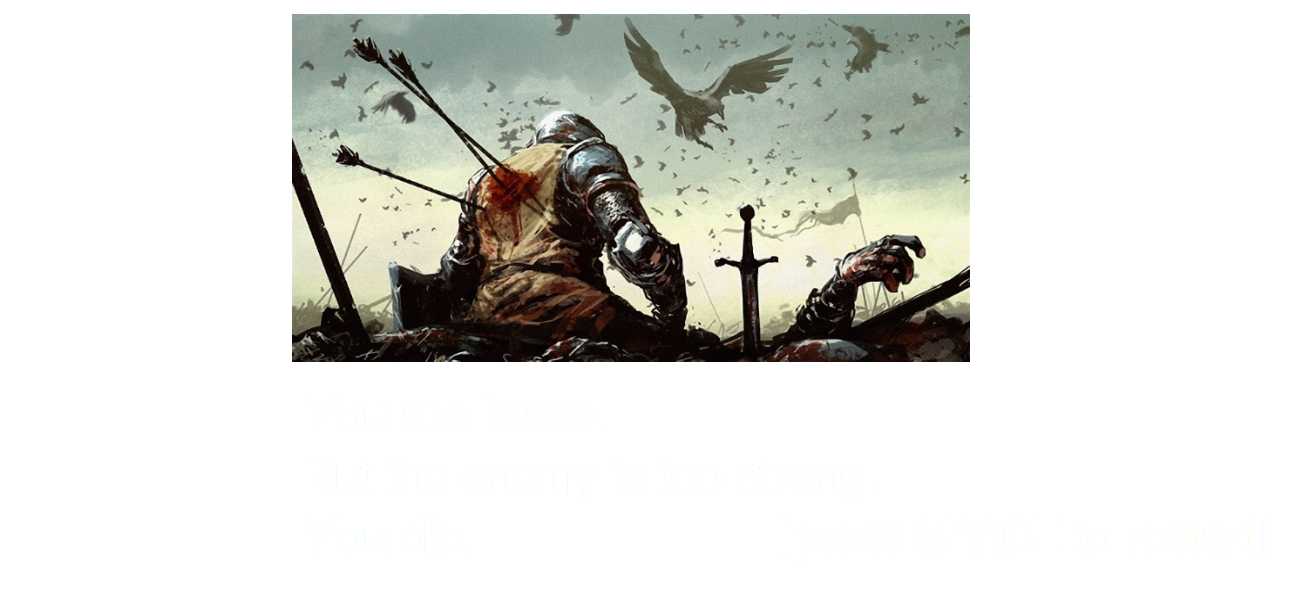
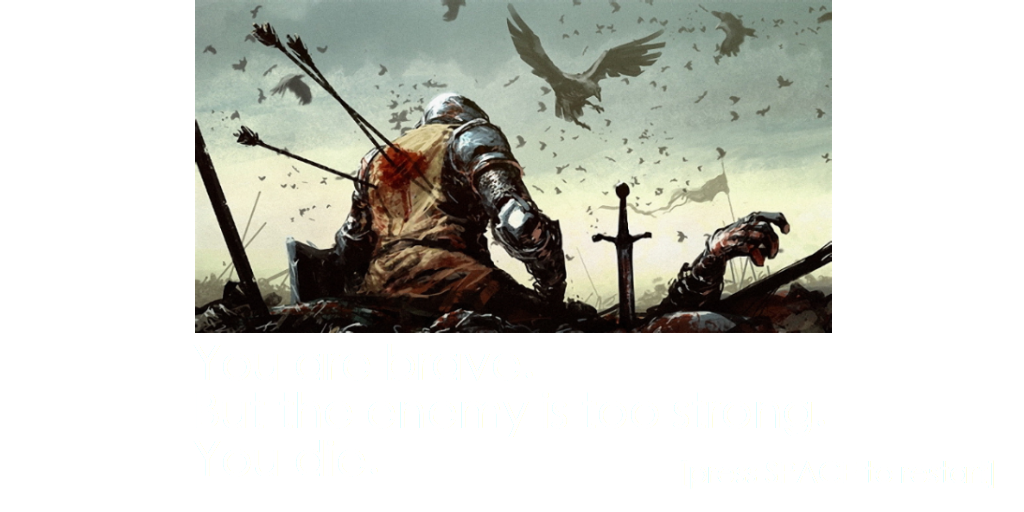
Endings

Changed region(s): [[0.1875, 0.0, 0.8125, 0.6562]]

diff --git a/public_html/src/MyGame/MyGame.js b/public_html/src/MyGame/MyGame.js
@@ -692,13 +692,17 @@ MyGame.prototype.update = function () {
         this.mHealth.setText("Health: " + this.mHealthValue + "/"+this.mHealthValueMax);
     }
     if(this.mHealthValue<=0){
-        this.ending = 0;
-        console.log(this.edning);
+        console.log(this.mBag.GetItemIdx(0));
+        if(this.mBag.GetItemIdx(0)==-1)  this.ending = 0;
+        else this.ending = 2;
+        //console.log(this.edning);
         gEngine.GameLoop.stop();
     }
     
     if(gEngine.Input.isKeyClicked(gEngine.Input.keys.Z)){
-        this.ending = 0;
+        console.log(this.mBag.GetItemIdx(0));
+        if(this.mBag.GetItemIdx(0)==-1)  this.ending = 0;
+        else this.ending = 2;
         gEngine.GameLoop.stop();
     }
     

diff --git a/public_html/src/MyGame/GameOver.js b/public_html/src/MyGame/GameOver.js
@@ -16,7 +16,7 @@ function GameOver() {
     this.mText = null;
     this.mHint = null;
     
-    this.EndingTexture = ["assets/Endings/Ending_0.png","",""];
+    this.EndingTexture = ["assets/Endings/Ending_0.png","assets/Endings/Ending_1.png","assets/Endings/Ending_2.png"];
     this.Ending = null;
 }
 
@@ -73,7 +73,7 @@ GameOver.prototype.initialize = function () {
 }
 
 GameOver.prototype.draw = function () {
-    gEngine.Core.clearCanvas([0.9, 0.9, 0.9, 1.0]);
+    gEngine.Core.clearCanvas([0, 0, 0, 1.0]);
 
     this.mCamera.setupViewProjection();
     this.Ending.draw(this.mCamera);

diff --git a/public_html/src/MyGame/Objects/Event.js b/public_html/src/MyGame/Objects/Event.js
@@ -85,7 +85,7 @@ var AllResult=[
     
     // villager 26 27 28 29
     new Result("The king fall seriously ill.", 0,0,0,0,0,0,0,0,0,0,0,1),
-    new Result("Get apple *1", 0,0,0,0,0,0,0,0,1,0,,0.6),
+    new Result("Get apple *1", 0,0,0,0,0,0,0,0,1,0,0,0.6),
     new Result("The villager doesn't give you anything.", 0,0,0,0,0,0,0,0,0,0,0,0.4),
     new Result("You leave.", 0,0,0,0,0,0,0,0,0,0,0,1),
 
